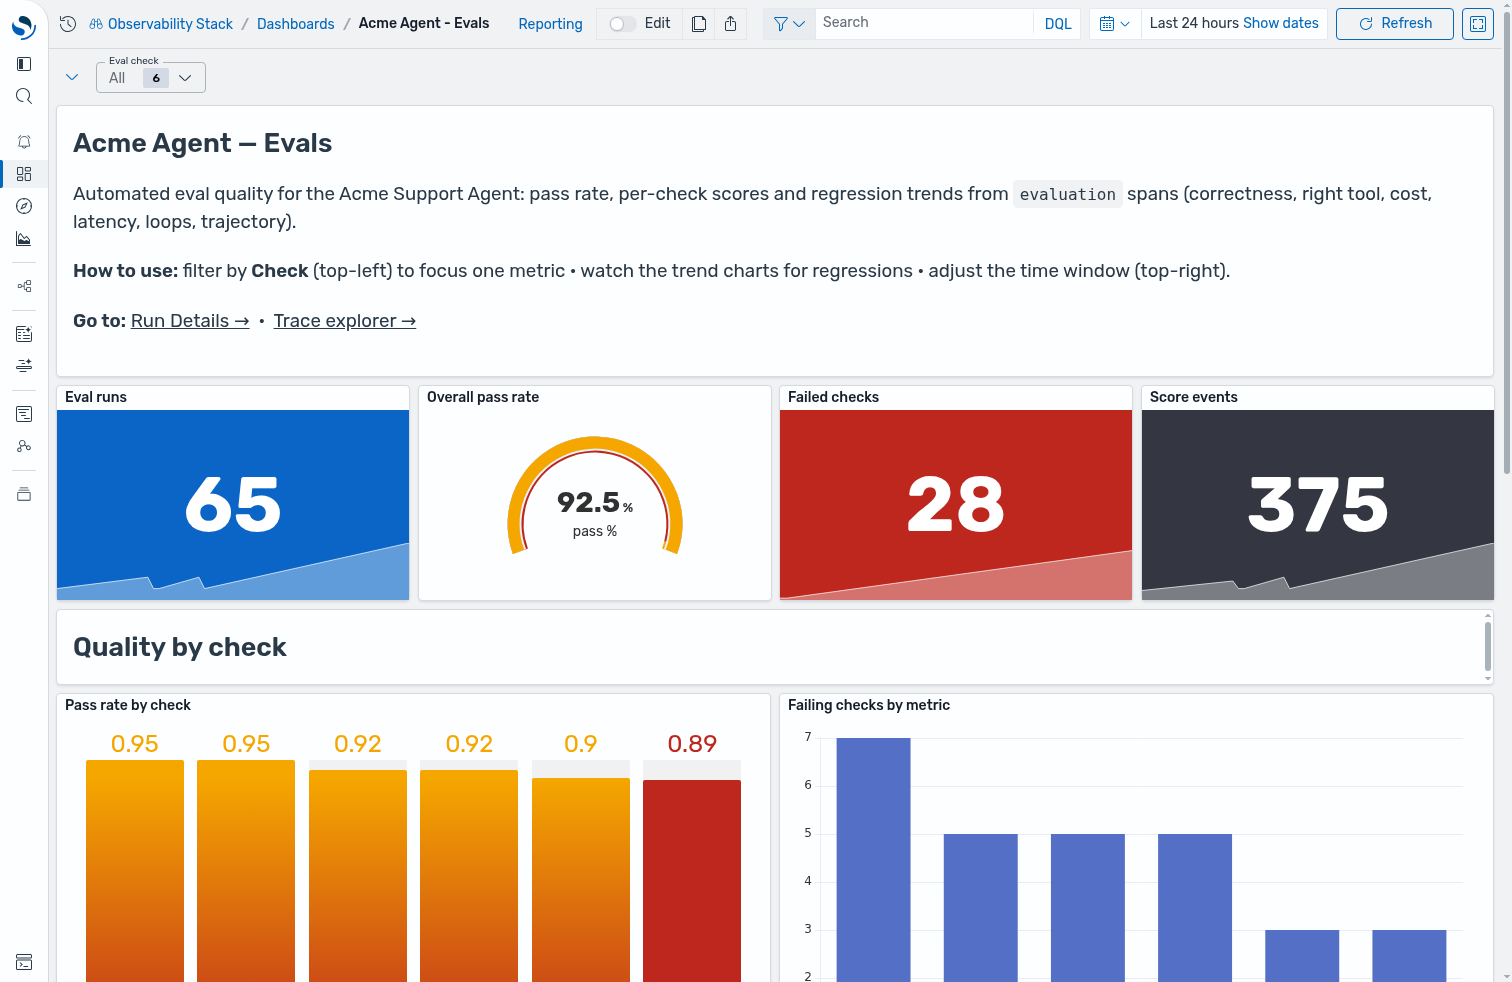
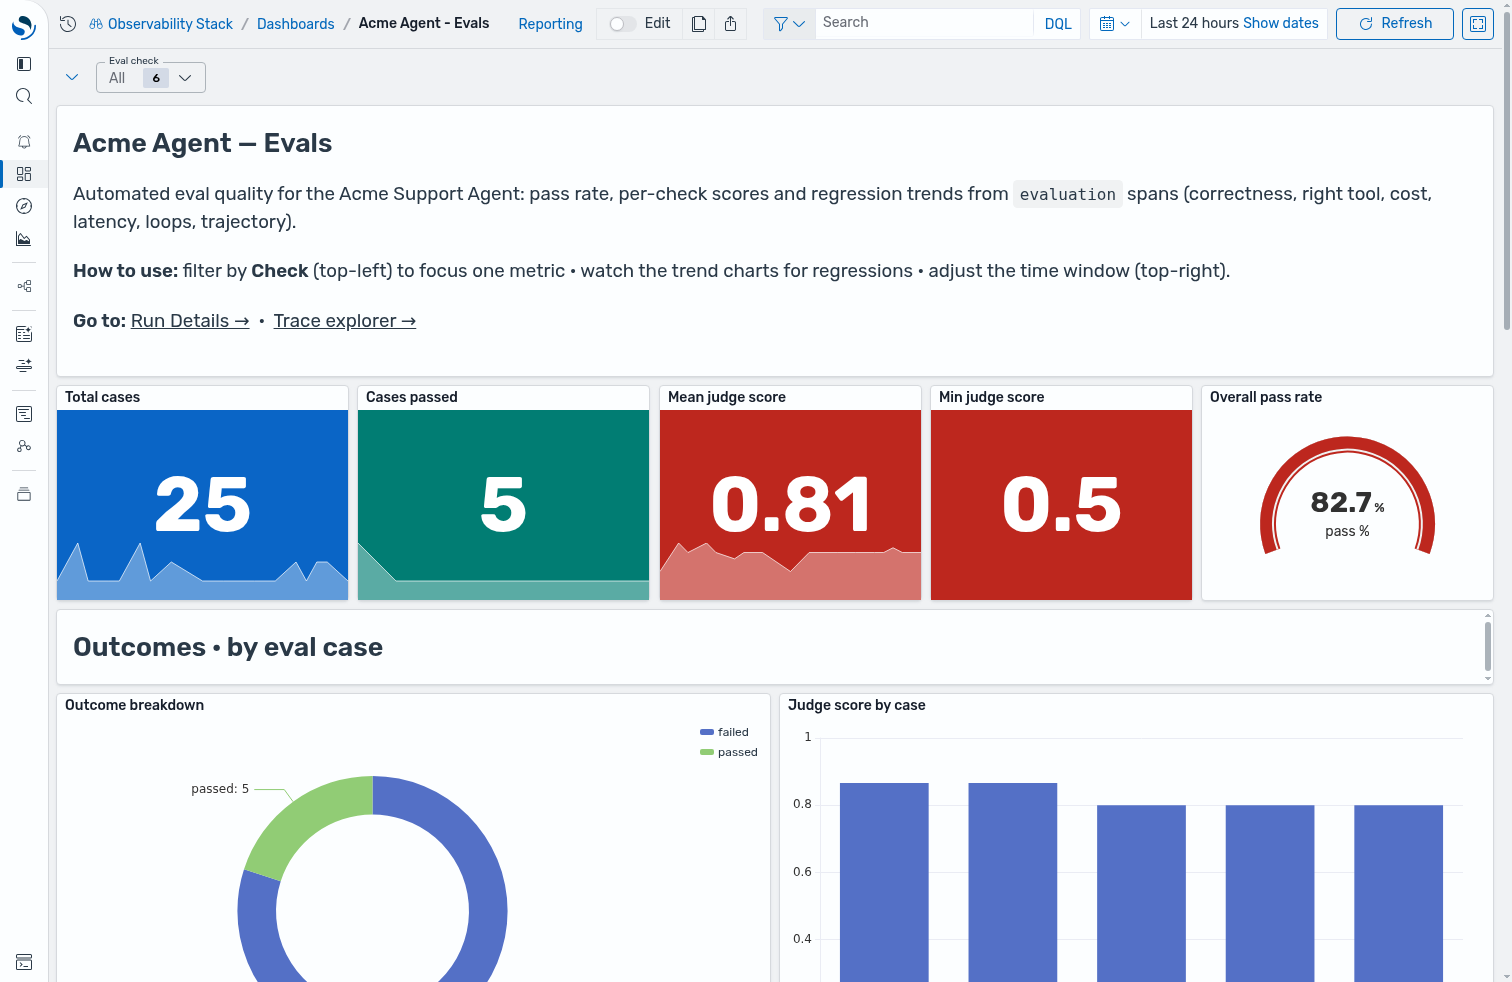
feat(dashboards): case-level eval panels (donut, per-case score, per-case table) — reference parity
Modeled on the OpenSearch team's Eval Runs dashboard:
- run_evals.py rolls a per-case mean score + passed flag onto the eval_case
  span (eval_case_score / eval_passed) so case-level panels key off the readable
  eval_question instead of joining across spans by trace id.
- Evals dashboard rebuilt: Total cases / Cases passed / Mean + Min judge score
  KPIs, an outcome-breakdown donut (pie), judge-score-by-case bars, mean-score
  and cases-passed trend lines, per-case-score-over-runs multi-line, and a
  per-case detail table — alongside the existing per-check bar_gauge / failing
  panels. Check filter scopes the check-level panels; case-level panels are
  unfiltered (they carry eval_question, not evaluation.name).
- mock_agent.py now enriches the chat span with model + token usage so the Run
  Details cost/token panels populate in offline mock mode (was counter-only).
- demo-data.sh spreads generated traces across ~6h (deterministic per-trace,
  SPREAD=0 to skip) so trend charts + sparklines render like a running agent.
- README/blog updated with the new panels; both screenshots refreshed. Documented
  the rollover wildcard gotcha (empty rollover index breaks otel-v1-apm-span* PPL).

diff --git a/acme-support-agent/dashboards/acme-dashboards-init.py b/acme-support-agent/dashboards/acme-dashboards-init.py
@@ -263,6 +263,10 @@ OP = "`attributes.gen_ai.operation.name`"
 MODEL = "`attributes.gen_ai.request.model`"
 EVN = "`attributes.gen_ai.evaluation.name`"
 EVV = "`attributes.gen_ai.evaluation.score.value`"
+# case-level fields rolled onto the eval_case invoke_agent span (see evals/run_evals.py)
+EQ = "`attributes.eval_question`"       # readable case label
+CSCORE = "`attributes.eval_case_score`"  # per-case mean score (0-1)
+EPASS = "`attributes.eval_passed`"       # 1 pass / 0 fail
 SPAN10 = "span(endTime,10m)"
 NAV_H = 10  # nav/overview panel height; content below is authored against y>=8 and shifted
 
@@ -337,22 +341,36 @@ def build(ws, span_id):
     ]
 
     EV = f"| where {OP}='evaluation'"
+    EC = f"| where {OP}='invoke_agent' and `attributes.gen_ai.agent.name`='eval_case'"  # one row per eval case
+    score_bands = [{"value": 0, "color": RED}, {"value": 0.9, "color": AMBER}, {"value": 1, "color": GREEN}]
     ev = [
         (md_panel(f"{E}-nav", nav_eval), 0, 0, 48, NAV_H),
-        (P(f"{E}-runs", "Eval runs", f"| where {OP}='invoke_agent' and `attributes.gen_ai.agent.name`='eval_case' | stats count() as runs by {SPAN10}", "metric", metric_params(BLUE, calc="total"), {"value": ["runs"], "time": [SPAN10]}), 0, 8, 12, 8),
+        # KPI row — case-level headline numbers (+ check-level pass-rate dial)
+        (P(f"{E}-total", "Total cases", f"{EC} | stats count() as cases by {SPAN10}", "metric", metric_params(BLUE, calc="total"), {"value": ["cases"], "time": [SPAN10]}), 0, 8, 10, 8),
+        (P(f"{E}-passed", "Cases passed", f"{EC} and {EPASS}=1 | stats count() as passed by {SPAN10}", "metric", metric_params(GREEN, calc="total"), {"value": ["passed"], "time": [SPAN10]}), 10, 8, 10, 8),
+        (P(f"{E}-mean", "Mean judge score", f"{EC} | stats avg({CSCORE}) as score by {SPAN10}", "metric", metric_params(SLATE, thresholds=score_bands, calc="mean"), {"value": ["score"], "time": [SPAN10]}), 20, 8, 9, 8),
+        (P(f"{E}-min", "Min judge score", f"{EC} | stats min({CSCORE}) as score", "metric", metric_params(RED, thresholds=score_bands, calc="last"), {"value": ["score"]}), 29, 8, 9, 8),
         (P(f"{E}-pass", "Overall pass rate", f"{EV} {CF} | stats avg({EVV}) as a | eval `pass %`=round(a * 100, 1) | fields `pass %`", "gauge",
-           gauge_params([{"value": 0, "color": RED}, {"value": 90, "color": AMBER}, {"value": 99, "color": GREEN}]), {"value": ["pass %"]}), 12, 8, 12, 8),
-        (P(f"{E}-fails", "Failed checks", f"{EV} {CF} and {EVV} < 1 | stats count() as fails by {SPAN10}", "metric", metric_params(RED, calc="total"), {"value": ["fails"], "time": [SPAN10]}), 24, 8, 12, 8),
-        (P(f"{E}-events", "Score events", f"{EV} {CF} | stats count() as events by {SPAN10}", "metric", metric_params(SLATE, calc="total"), {"value": ["events"], "time": [SPAN10]}), 36, 8, 12, 8),
-        (md_panel(f"{E}-h-quality", "### Quality by check"), 0, 16, 48, 3),
+           gauge_params([{"value": 0, "color": RED}, {"value": 90, "color": AMBER}, {"value": 99, "color": GREEN}]), {"value": ["pass %"]}), 38, 8, 10, 8),
+        # outcome mix + per-case scores
+        (md_panel(f"{E}-h-out", "### Outcomes  ·  by eval case"), 0, 16, 48, 3),
+        (P(f"{E}-donut", "Outcome breakdown", f"{EC} | eval outcome=if({EPASS}=1,'passed','failed') | stats count() as cases by outcome", "pie", P_PIE, {"size": ["cases"], "color": ["outcome"]}), 0, 19, 24, 15),
+        (P(f"{E}-bycase", "Judge score by case", f"{EC} | stats avg({CSCORE}) as score by {EQ} | sort - score", "bar", P_BARH, {"x": [EQ.strip('`')], "y": ["score"]}), 24, 19, 24, 15),
+        # per-criterion quality (check-level, $check-filtered)
+        (md_panel(f"{E}-h-quality", "### Quality by check"), 0, 34, 48, 3),
         (P(f"{E}-bargauge", "Pass rate by check", f"{EV} {CF} | stats avg({EVV}) as score by {EVN} | sort - score", "bar_gauge",
-           bargauge_params([{"value": 0, "color": RED}, {"value": 0.9, "color": AMBER}, {"value": 0.99, "color": GREEN}]), {"x": [EVN.strip('`')], "y": ["score"]}), 0, 19, 24, 15),
-        (P(f"{E}-failbymetric", "Failing checks by metric", f"{EV} {CF} and {EVV} < 1 | stats count() as fails by {EVN} | sort - fails", "bar", P_BARH, {"x": [EVN.strip('`')], "y": ["fails"]}), 24, 19, 24, 15),
-        (md_panel(f"{E}-h-trend", "### Score & failure trend"), 0, 34, 48, 3),
-        (P(f"{E}-time", "Avg score over time", f"{EV} {CF} | stats avg({EVV}) as score by {SPAN10}, {EVN}", "line", P_LINE, {"x": [SPAN10], "y": ["score"], "color": [EVN.strip('`')]}), 0, 37, 24, 15),
-        (P(f"{E}-failtime", "Failing checks over time", f"{EV} {CF} and {EVV} < 1 | stats count() as fails by {SPAN10}, {EVN}", "area", P_AREA, {"x": [SPAN10], "y": ["fails"], "color": [EVN.strip('`')]}), 24, 37, 24, 15),
-        (md_panel(f"{E}-h-tbl", "### Failing checks"), 0, 52, 48, 3),
-        (P(f"{E}-failtbl", "Failing checks by metric", f"{EV} {CF} and {EVV} < 1 | stats count() as fails by {EVN} | sort - fails", "table", P_TABLE, {}), 0, 55, 48, 12),
+           bargauge_params(score_bands), {"x": [EVN.strip('`')], "y": ["score"]}), 0, 37, 24, 15),
+        (P(f"{E}-failbymetric", "Failing checks by metric", f"{EV} {CF} and {EVV} < 1 | stats count() as fails by {EVN} | sort - fails", "bar", P_BARH, {"x": [EVN.strip('`')], "y": ["fails"]}), 24, 37, 24, 15),
+        # trends
+        (md_panel(f"{E}-h-trend", "### Trends"), 0, 52, 48, 3),
+        (P(f"{E}-scoretrend", "Mean judge score trend", f"{EC} | stats avg({CSCORE}) as score by {SPAN10}", "line", P_LINE, {"x": [SPAN10], "y": ["score"]}), 0, 55, 24, 15),
+        (P(f"{E}-passph", "Cases passed / 10m", f"{EC} and {EPASS}=1 | stats count() as passed by {SPAN10}", "line", P_LINE, {"x": [SPAN10], "y": ["passed"]}), 24, 55, 24, 15),
+        (P(f"{E}-caseruns", "Per-case score over runs", f"{EC} | stats avg({CSCORE}) as score by {SPAN10}, {EQ}", "line", P_LINE, {"x": [SPAN10], "y": ["score"], "color": [EQ.strip('`')]}), 0, 70, 24, 15),
+        (P(f"{E}-failtime", "Failing checks over time", f"{EV} {CF} and {EVV} < 1 | stats count() as fails by {SPAN10}, {EVN}", "area", P_AREA, {"x": [SPAN10], "y": ["fails"], "color": [EVN.strip('`')]}), 24, 70, 24, 15),
+        # detail tables
+        (md_panel(f"{E}-h-tbl", "### Detail"), 0, 85, 48, 3),
+        (P(f"{E}-casetbl", "Per-case detail", f"{EC} | eval case={EQ}, score={CSCORE}, `latency s`=round(durationInNanos / 1000000000.0,2), model={MODEL}, tool=`attributes.expected_tool` | fields case, score, `latency s`, model, tool | sort score", "table", P_TABLE, {}), 0, 88, 24, 12),
+        (P(f"{E}-failtbl", "Failing checks", f"{EV} {CF} and {EVV} < 1 | stats count() as fails by {EVN} | eval check={EVN} | fields check, fails | sort - fails", "table", P_TABLE, {}), 24, 88, 24, 12),
     ]
 
     run = _shift(run)

diff --git a/acme-support-agent/python/acme/frameworks/mock_agent.py b/acme-support-agent/python/acme/frameworks/mock_agent.py
@@ -71,8 +71,17 @@ def _answer_from(tool_name: str, result: dict, question: str) -> str:
 
 
 def _record_nominal(question: str, answer: str) -> None:
-    """Deterministic token accounting so cost/token panels have data offline."""
-    record_usage(len(question) * 3 + 400, len(answer) * 3 + 40)
+    """Deterministic token accounting so cost/token panels have data offline.
+
+    Feeds the in-process counter (for the eval cost check) *and* enriches the
+    active chat span with gen_ai.request.model + usage, so the Run Details
+    cost/token panels populate in mock mode (real adapters get this from the
+    provider response; the mock has to supply it explicitly).
+    """
+    inp = len(question) * 3 + 400
+    out = len(answer) * 3 + 40
+    record_usage(inp, out)
+    enrich(model="mock", input_tokens=inp, output_tokens=out)
 
 
 @observe(op=Op.CHAT, name="mock-chat")
@@ -108,5 +117,6 @@ def run_turn(question: str, history: list[dict]) -> str:
         time.sleep(9)  # breach LATENCY_BUDGET_S (8s)
     if "cost" in faults:
         record_usage(5200, 900)  # exceed TOKEN_BUDGET (4000)
+        enrich(model="mock", input_tokens=5200, output_tokens=900)  # show the blowup in token panels
 
     return _mock_chat(question, faults)

diff --git a/acme-support-agent/python/evals/run_evals.py b/acme-support-agent/python/evals/run_evals.py
@@ -77,6 +77,14 @@ def run_case(case: EvalCase, framework: str | None) -> dict:
     score(name="no_loops", value=no_loops)
     score(name="cost", value=cost_ok)
 
+    # roll the per-case result onto the eval_case span so dashboards can key
+    # case-level panels (per-case score / pass rate / outcome mix) off the
+    # readable question rather than joining across spans by trace id.
+    checks = [correctness, right_tool, trajectory_match, latency_ok, no_loops, cost_ok]
+    case_passed = all(checks)
+    enrich(eval_case_score=round(sum(checks) / len(checks), 3),
+           eval_passed=1 if case_passed else 0)
+
     return {
         "question": case.question,
         "answer": answer,

diff --git a/acme-support-agent/dashboards/README.md b/acme-support-agent/dashboards/README.md
@@ -38,17 +38,28 @@ defaults to *All*, and KPI cards that show a **trend sparkline** behind the big 
 
 ## Acme Agent — Evals
 
+Two grains of data drive this dashboard: **case-level** panels read the per-case rollup
+(`eval_case_score` / `eval_passed` / `eval_question`) on the `eval_case` `invoke_agent` span;
+**check-level** panels read the individual `evaluation` spans (`evaluation.name` / `.score.value`)
+and honor the **Check** filter.
+
 | Panel | Answers | Chart | Query source |
 |---|---|---|---|
-| Eval runs | How many eval cases ran? | metric + sparkline | `count()` of eval `invoke_agent` spans (not Check-filtered) |
-| Overall pass rate | Aggregate quality (**Check**-filtered) | gauge | `avg(evaluation.score.value)` |
-| Failed checks | How many checks scored < 1 (**Check**-filtered) | metric + sparkline | `count()` where score `< 1` by bucket |
-| Score events | Total scored checks (**Check**-filtered) | metric + sparkline | `count()` of `evaluation` spans by bucket |
+| Total cases | How many eval cases ran? | metric + sparkline | `count()` of `eval_case` spans by bucket |
+| Cases passed | How many cases passed every check? | metric + sparkline | `count()` where `eval_passed=1` by bucket |
+| Mean judge score | Average per-case score | metric + sparkline | `avg(eval_case_score)` by bucket |
+| Min judge score | Worst case in the window | metric | `min(eval_case_score)` |
+| Overall pass rate | Aggregate check quality (**Check**-filtered) | gauge | `avg(evaluation.score.value)` |
+| Outcome breakdown | Passed vs failed mix | donut (pie) | `count()` by `passed`/`failed` |
+| Judge score by case | Which question scores worst | bar | `avg(eval_case_score)` by `eval_question` |
 | Pass rate by check | Which criterion is weakest (**Check**-filtered) | `bar_gauge` | `avg(score)` by `evaluation.name`, threshold-colored |
 | Failing checks by metric | Where failures concentrate (**Check**-filtered) | bar | `count()` where score `< 1` by `evaluation.name` |
-| Avg score over time | Per-check regression trend (**Check**-filtered) | line | `avg(score)` by bucket, `evaluation.name` |
+| Mean judge score trend | Quality over time | line | `avg(eval_case_score)` by bucket |
+| Cases passed / 10m | Passing throughput | line | `count()` where `eval_passed=1` by bucket |
+| Per-case score over runs | Per-question regression trend | multi-line | `avg(eval_case_score)` by bucket, `eval_question` |
 | Failing checks over time | Failure trend (**Check**-filtered) | stacked area | `count()` where score `< 1` by bucket, `evaluation.name` |
-| Failing checks (table) | The failing criteria, ranked (**Check**-filtered) | table | `count()` where score `< 1` by `evaluation.name` |
+| Per-case detail | Score, latency, model, tool per case | table | `eval_case` spans: `eval_question`, score, duration, model, `expected_tool` |
+| Failing checks | The failing criteria, ranked (**Check**-filtered) | table | `count()` where score `< 1` by `evaluation.name` |
 
 ## How to read it
 
@@ -58,10 +69,11 @@ defaults to *All*, and KPI cards that show a **trend sparkline** behind the big 
   *current health* against thresholds; the KPI cards show a *trend* (the sparkline behind the
   number is the same metric bucketed over the window).
 - **Filter variables** — the **Model** (Run Details) and **Check** (Evals) dropdowns default to
-  *All*. Selecting one value scopes the model/cost/token panels (Model) or every eval panel
-  (Check). `Eval runs` stays unfiltered on purpose — it counts eval *cases*, which carry no
-  `evaluation.name`. Model-independent panels (health, latency, tools, pipeline) are likewise
-  left unfiltered, since those spans carry no `request.model`.
+  *All*. Selecting one value scopes the model/cost/token panels (Model) or the check-level eval
+  panels (Check). The **case-level** eval panels (Total cases, Cases passed, Mean/Min judge score,
+  outcome donut, judge-score-by-case, the case trends and per-case table) stay unfiltered on
+  purpose — those spans carry `eval_question`, not `evaluation.name`. Likewise the Run Details
+  health/latency/tool/pipeline panels are unfiltered, since those spans carry no `request.model`.
 - **Trace drill-down** — in *Recent error traces*, the `traceId` column is a data-link to the
   span waterfall in the Agent Traces app (opens in a new tab). Nav links and the drill-down
   carry the `now-24h` window across.
@@ -124,6 +136,13 @@ It drives baseline success traffic + a clean eval pass, then injects failures vi
 Wait ~90s for Data Prepper ingestion, then refresh the dashboards. Default (no
 `ACME_FAULT`) behavior is unchanged.
 
+The generator emits every trace at the current time, which piles all points into one
+bucket and leaves the trend charts / KPI sparklines flat. As a final step it therefore
+waits for ingestion and **spreads the traces across the last ~6h** (deterministically, by
+a hash of each `traceId`, preserving intra-trace timing) so the dashboards look like a
+continuously-running agent. Set `SPREAD=0` to skip that and let the trends fill in as you
+run the agent over time.
+
 ## Notes
 
 - **PromQL scope:** the Python SDK exports traces only, so no per-agent metrics reach
@@ -135,6 +154,15 @@ Wait ~90s for Data Prepper ingestion, then refresh the dashboards. Default (no
   init refreshes that list as new models / checks appear.
 - Token fields are cast (`cast(... as int)`) in PPL sums, matching `verify/queries.md`.
 - The dashboards read `endTime` as the time field for the span index pattern.
+- **Case-level eval panels** need the per-case rollup (`eval_case_score` / `eval_passed`)
+  that `evals/run_evals.py` attaches to the `eval_case` span — re-run the evals (or
+  `demo-data.sh`) after pulling this change so those fields exist.
+- **Rollover gotcha:** if Data Prepper rolls the span index over to a fresh empty
+  `otel-v1-apm-span-00000N`, its template maps `events.attributes` as a scalar while the
+  populated index has it as an object — the mismatch makes wildcard PPL fail to plan
+  (`UnsupportedOperationException` at the analyzing stage) and every panel shows an error.
+  A single demo run won't trigger a rollover; if you hit it, delete the empty index
+  (`DELETE otel-v1-apm-span-00000N`) so the `otel-v1-apm-span*` pattern resolves cleanly.
 - **Scoped out** (not expressible in a static PPL/PromQL dashboard): run-vs-run experiment
   diffing, human-annotation queues, drift detection (needs the Anomaly Detection / Alerting
   plugins), and the span waterfall itself — which the linked **Agent Traces app** provides.

diff --git a/blog.md b/blog.md
@@ -415,9 +415,10 @@ tools teams already know (Arize/Phoenix, Braintrust, LangSmith, Langfuse):
   P50/P95/P99 + distribution, tokens by model, tokens in/out over time, tool analytics, and a
   **Recent error traces** table whose trace IDs deep-link straight to the span waterfall. A
   **Model** filter scopes the cost/token panels.
-- **Acme Agent — Evals** — eval-runs / pass-rate gauge / failed-checks / score-events KPI cards,
-  a per-check pass-rate `bar_gauge`, failing-checks-by-metric bar, score + failure trend lines,
-  and a failing-checks table. A **Check** filter focuses one metric.
+- **Acme Agent — Evals** — case-level KPI cards (total cases, cases passed, mean / min judge
+  score) plus a pass-rate gauge, an outcome-breakdown donut, judge-score-by-case bars, a per-check
+  pass-rate `bar_gauge`, score/failure trend lines (including per-case-over-runs), and per-case +
+  failing-check tables. A **Check** filter focuses the check-level panels.
 
 ![Acme Agent — Run Details dashboard](images/dashboard-run-details.png)
 
